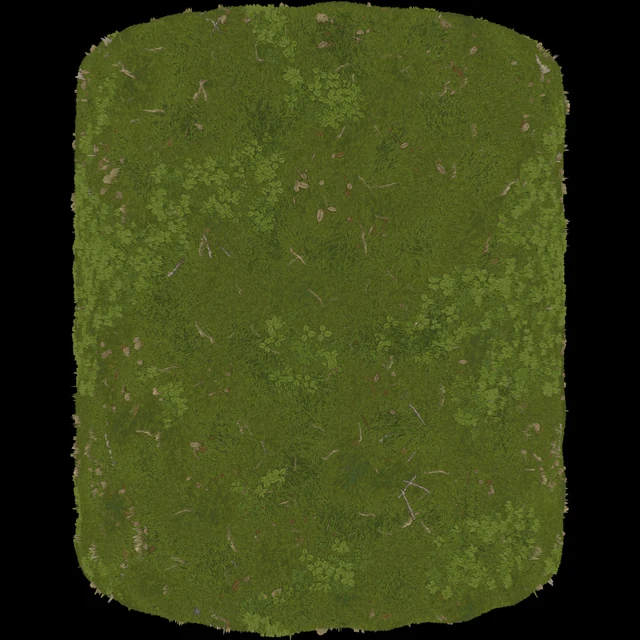
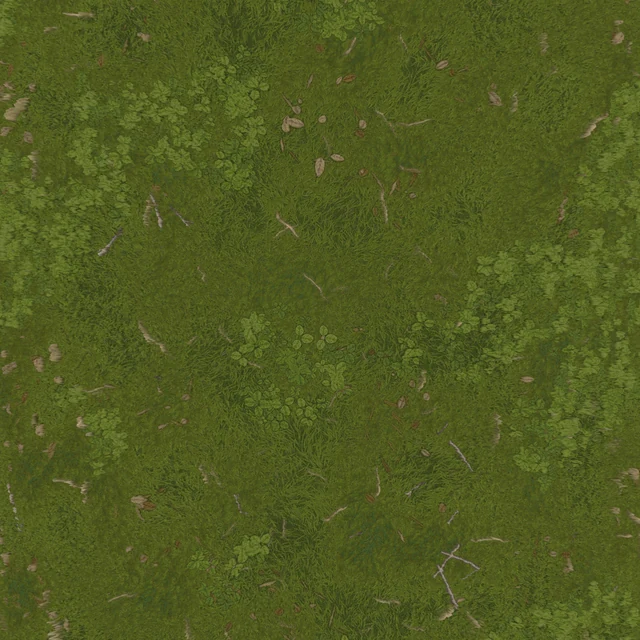
瓦屋面与草地的三通道改为在物体内部取平整方块裁切，不再带轮廓和黑边；版本号升到 v=4

diff --git a/materials/index.html b/materials/index.html
@@ -94,11 +94,11 @@ a{color:inherit;text-decoration:none}
 <article class="slide" id="m01">
   <div class="bg"><img src="../assets/mat/bg20.webp" alt="" loading="lazy"></div>
   <div class="stage">
-    <figure class="ball"><img src="../assets/mat/brick_big.webp?v=3" alt="红砖墙 材质渲染" loading="lazy"></figure>
+    <figure class="ball"><img src="../assets/mat/brick_big.webp?v=4" alt="红砖墙 材质渲染" loading="lazy"></figure>
     <div class="maps">
-      <figure data-full="../assets/mat/brick_a.webp?v=3"><img src="../assets/mat/brick_a.webp?v=3" alt="红砖墙 Albedo" loading="lazy"><span>ALBEDO</span></figure>
-      <figure data-full="../assets/mat/brick_n.webp?v=3"><img src="../assets/mat/brick_n.webp?v=3" alt="红砖墙 Normal" loading="lazy"><span>NORMAL</span></figure>
-      <figure data-full="../assets/mat/brick_r.webp?v=3"><img src="../assets/mat/brick_r.webp?v=3" alt="红砖墙 Roughness" loading="lazy"><span>ROUGH</span></figure>
+      <figure data-full="../assets/mat/brick_a.webp?v=4"><img src="../assets/mat/brick_a.webp?v=4" alt="红砖墙 Albedo" loading="lazy"><span>ALBEDO</span></figure>
+      <figure data-full="../assets/mat/brick_n.webp?v=4"><img src="../assets/mat/brick_n.webp?v=4" alt="红砖墙 Normal" loading="lazy"><span>NORMAL</span></figure>
+      <figure data-full="../assets/mat/brick_r.webp?v=4"><img src="../assets/mat/brick_r.webp?v=4" alt="红砖墙 Roughness" loading="lazy"><span>ROUGH</span></figure>
     </div>
   </div>
   <div class="cap">
@@ -111,11 +111,11 @@ a{color:inherit;text-decoration:none}
 <article class="slide" id="m02">
   <div class="bg"><img src="../assets/mat/bg21.webp" alt="" loading="lazy"></div>
   <div class="stage">
-    <figure class="ball"><img src="../assets/mat/redwall_big.webp?v=3" alt="红漆墙 材质渲染" loading="lazy"></figure>
+    <figure class="ball"><img src="../assets/mat/redwall_big.webp?v=4" alt="红漆墙 材质渲染" loading="lazy"></figure>
     <div class="maps">
-      <figure data-full="../assets/mat/redwall_a.webp?v=3"><img src="../assets/mat/redwall_a.webp?v=3" alt="红漆墙 Albedo" loading="lazy"><span>ALBEDO</span></figure>
-      <figure data-full="../assets/mat/redwall_n.webp?v=3"><img src="../assets/mat/redwall_n.webp?v=3" alt="红漆墙 Normal" loading="lazy"><span>NORMAL</span></figure>
-      <figure data-full="../assets/mat/redwall_r.webp?v=3"><img src="../assets/mat/redwall_r.webp?v=3" alt="红漆墙 Roughness" loading="lazy"><span>ROUGH</span></figure>
+      <figure data-full="../assets/mat/redwall_a.webp?v=4"><img src="../assets/mat/redwall_a.webp?v=4" alt="红漆墙 Albedo" loading="lazy"><span>ALBEDO</span></figure>
+      <figure data-full="../assets/mat/redwall_n.webp?v=4"><img src="../assets/mat/redwall_n.webp?v=4" alt="红漆墙 Normal" loading="lazy"><span>NORMAL</span></figure>
+      <figure data-full="../assets/mat/redwall_r.webp?v=4"><img src="../assets/mat/redwall_r.webp?v=4" alt="红漆墙 Roughness" loading="lazy"><span>ROUGH</span></figure>
     </div>
   </div>
   <div class="cap">
@@ -128,11 +128,11 @@ a{color:inherit;text-decoration:none}
 <article class="slide" id="m03">
   <div class="bg"><img src="../assets/mat/bg21.webp" alt="" loading="lazy"></div>
   <div class="stage">
-    <figure class="ball"><img src="../assets/mat/redwall2_big.webp?v=3" alt="红漆墙 02 材质渲染" loading="lazy"></figure>
+    <figure class="ball"><img src="../assets/mat/redwall2_big.webp?v=4" alt="红漆墙 02 材质渲染" loading="lazy"></figure>
     <div class="maps">
-      <figure data-full="../assets/mat/redwall2_a.webp?v=3"><img src="../assets/mat/redwall2_a.webp?v=3" alt="红漆墙 02 Albedo" loading="lazy"><span>ALBEDO</span></figure>
-      <figure data-full="../assets/mat/redwall2_n.webp?v=3"><img src="../assets/mat/redwall2_n.webp?v=3" alt="红漆墙 02 Normal" loading="lazy"><span>NORMAL</span></figure>
-      <figure data-full="../assets/mat/redwall2_r.webp?v=3"><img src="../assets/mat/redwall2_r.webp?v=3" alt="红漆墙 02 Roughness" loading="lazy"><span>ROUGH</span></figure>
+      <figure data-full="../assets/mat/redwall2_a.webp?v=4"><img src="../assets/mat/redwall2_a.webp?v=4" alt="红漆墙 02 Albedo" loading="lazy"><span>ALBEDO</span></figure>
+      <figure data-full="../assets/mat/redwall2_n.webp?v=4"><img src="../assets/mat/redwall2_n.webp?v=4" alt="红漆墙 02 Normal" loading="lazy"><span>NORMAL</span></figure>
+      <figure data-full="../assets/mat/redwall2_r.webp?v=4"><img src="../assets/mat/redwall2_r.webp?v=4" alt="红漆墙 02 Roughness" loading="lazy"><span>ROUGH</span></figure>
     </div>
   </div>
   <div class="cap">
@@ -145,11 +145,11 @@ a{color:inherit;text-decoration:none}
 <article class="slide" id="m04">
   <div class="bg"><img src="../assets/mat/bg19.webp" alt="" loading="lazy"></div>
   <div class="stage">
-    <figure class="ball"><img src="../assets/mat/soil_big.webp?v=3" alt="土壤 材质渲染" loading="lazy"></figure>
+    <figure class="ball"><img src="../assets/mat/soil_big.webp?v=4" alt="土壤 材质渲染" loading="lazy"></figure>
     <div class="maps">
-      <figure data-full="../assets/mat/soil_a.webp?v=3"><img src="../assets/mat/soil_a.webp?v=3" alt="土壤 Albedo" loading="lazy"><span>ALBEDO</span></figure>
-      <figure data-full="../assets/mat/soil_n.webp?v=3"><img src="../assets/mat/soil_n.webp?v=3" alt="土壤 Normal" loading="lazy"><span>NORMAL</span></figure>
-      <figure data-full="../assets/mat/soil_r.webp?v=3"><img src="../assets/mat/soil_r.webp?v=3" alt="土壤 Roughness" loading="lazy"><span>ROUGH</span></figure>
+      <figure data-full="../assets/mat/soil_a.webp?v=4"><img src="../assets/mat/soil_a.webp?v=4" alt="土壤 Albedo" loading="lazy"><span>ALBEDO</span></figure>
+      <figure data-full="../assets/mat/soil_n.webp?v=4"><img src="../assets/mat/soil_n.webp?v=4" alt="土壤 Normal" loading="lazy"><span>NORMAL</span></figure>
+      <figure data-full="../assets/mat/soil_r.webp?v=4"><img src="../assets/mat/soil_r.webp?v=4" alt="土壤 Roughness" loading="lazy"><span>ROUGH</span></figure>
     </div>
   </div>
   <div class="cap">
@@ -162,11 +162,11 @@ a{color:inherit;text-decoration:none}
 <article class="slide" id="m05">
   <div class="bg"><img src="../assets/mat/bg15.webp" alt="" loading="lazy"></div>
   <div class="stage">
-    <figure class="ball"><img src="../assets/mat/stonebrick_big.webp?v=3" alt="石砖墙 材质渲染" loading="lazy"></figure>
+    <figure class="ball"><img src="../assets/mat/stonebrick_big.webp?v=4" alt="石砖墙 材质渲染" loading="lazy"></figure>
     <div class="maps">
-      <figure data-full="../assets/mat/stonebrick_a.webp?v=3"><img src="../assets/mat/stonebrick_a.webp?v=3" alt="石砖墙 Albedo" loading="lazy"><span>ALBEDO</span></figure>
-      <figure data-full="../assets/mat/stonebrick_n.webp?v=3"><img src="../assets/mat/stonebrick_n.webp?v=3" alt="石砖墙 Normal" loading="lazy"><span>NORMAL</span></figure>
-      <figure data-full="../assets/mat/stonebrick_r.webp?v=3"><img src="../assets/mat/stonebrick_r.webp?v=3" alt="石砖墙 Roughness" loading="lazy"><span>ROUGH</span></figure>
+      <figure data-full="../assets/mat/stonebrick_a.webp?v=4"><img src="../assets/mat/stonebrick_a.webp?v=4" alt="石砖墙 Albedo" loading="lazy"><span>ALBEDO</span></figure>
+      <figure data-full="../assets/mat/stonebrick_n.webp?v=4"><img src="../assets/mat/stonebrick_n.webp?v=4" alt="石砖墙 Normal" loading="lazy"><span>NORMAL</span></figure>
+      <figure data-full="../assets/mat/stonebrick_r.webp?v=4"><img src="../assets/mat/stonebrick_r.webp?v=4" alt="石砖墙 Roughness" loading="lazy"><span>ROUGH</span></figure>
     </div>
   </div>
   <div class="cap">
@@ -179,11 +179,11 @@ a{color:inherit;text-decoration:none}
 <article class="slide" id="m06">
   <div class="bg"><img src="../assets/mat/bg18.webp" alt="" loading="lazy"></div>
   <div class="stage">
-    <figure class="ball"><img src="../assets/mat/stonewall_big.webp?v=3" alt="粗石墙 材质渲染" loading="lazy"></figure>
+    <figure class="ball"><img src="../assets/mat/stonewall_big.webp?v=4" alt="粗石墙 材质渲染" loading="lazy"></figure>
     <div class="maps">
-      <figure data-full="../assets/mat/stonewall_a.webp?v=3"><img src="../assets/mat/stonewall_a.webp?v=3" alt="粗石墙 Albedo" loading="lazy"><span>ALBEDO</span></figure>
-      <figure data-full="../assets/mat/stonewall_n.webp?v=3"><img src="../assets/mat/stonewall_n.webp?v=3" alt="粗石墙 Normal" loading="lazy"><span>NORMAL</span></figure>
-      <figure data-full="../assets/mat/stonewall_r.webp?v=3"><img src="../assets/mat/stonewall_r.webp?v=3" alt="粗石墙 Roughness" loading="lazy"><span>ROUGH</span></figure>
+      <figure data-full="../assets/mat/stonewall_a.webp?v=4"><img src="../assets/mat/stonewall_a.webp?v=4" alt="粗石墙 Albedo" loading="lazy"><span>ALBEDO</span></figure>
+      <figure data-full="../assets/mat/stonewall_n.webp?v=4"><img src="../assets/mat/stonewall_n.webp?v=4" alt="粗石墙 Normal" loading="lazy"><span>NORMAL</span></figure>
+      <figure data-full="../assets/mat/stonewall_r.webp?v=4"><img src="../assets/mat/stonewall_r.webp?v=4" alt="粗石墙 Roughness" loading="lazy"><span>ROUGH</span></figure>
     </div>
   </div>
   <div class="cap">
@@ -196,11 +196,11 @@ a{color:inherit;text-decoration:none}
 <article class="slide" id="m07">
   <div class="bg"><img src="../assets/mat/bg18.webp" alt="" loading="lazy"></div>
   <div class="stage">
-    <figure class="ball"><img src="../assets/mat/stonewall2_big.webp?v=3" alt="粗石墙 02 材质渲染" loading="lazy"></figure>
+    <figure class="ball"><img src="../assets/mat/stonewall2_big.webp?v=4" alt="粗石墙 02 材质渲染" loading="lazy"></figure>
     <div class="maps">
-      <figure data-full="../assets/mat/stonewall2_a.webp?v=3"><img src="../assets/mat/stonewall2_a.webp?v=3" alt="粗石墙 02 Albedo" loading="lazy"><span>ALBEDO</span></figure>
-      <figure data-full="../assets/mat/stonewall2_n.webp?v=3"><img src="../assets/mat/stonewall2_n.webp?v=3" alt="粗石墙 02 Normal" loading="lazy"><span>NORMAL</span></figure>
-      <figure data-full="../assets/mat/stonewall2_r.webp?v=3"><img src="../assets/mat/stonewall2_r.webp?v=3" alt="粗石墙 02 Roughness" loading="lazy"><span>ROUGH</span></figure>
+      <figure data-full="../assets/mat/stonewall2_a.webp?v=4"><img src="../assets/mat/stonewall2_a.webp?v=4" alt="粗石墙 02 Albedo" loading="lazy"><span>ALBEDO</span></figure>
+      <figure data-full="../assets/mat/stonewall2_n.webp?v=4"><img src="../assets/mat/stonewall2_n.webp?v=4" alt="粗石墙 02 Normal" loading="lazy"><span>NORMAL</span></figure>
+      <figure data-full="../assets/mat/stonewall2_r.webp?v=4"><img src="../assets/mat/stonewall2_r.webp?v=4" alt="粗石墙 02 Roughness" loading="lazy"><span>ROUGH</span></figure>
     </div>
   </div>
   <div class="cap">
@@ -213,11 +213,11 @@ a{color:inherit;text-decoration:none}
 <article class="slide" id="m08">
   <div class="bg"><img src="../assets/mat/bg18.webp" alt="" loading="lazy"></div>
   <div class="stage">
-    <figure class="ball"><img src="../assets/mat/stonewall3_big.webp?v=3" alt="粗石墙 03 材质渲染" loading="lazy"></figure>
+    <figure class="ball"><img src="../assets/mat/stonewall3_big.webp?v=4" alt="粗石墙 03 材质渲染" loading="lazy"></figure>
     <div class="maps">
-      <figure data-full="../assets/mat/stonewall3_a.webp?v=3"><img src="../assets/mat/stonewall3_a.webp?v=3" alt="粗石墙 03 Albedo" loading="lazy"><span>ALBEDO</span></figure>
-      <figure data-full="../assets/mat/stonewall3_n.webp?v=3"><img src="../assets/mat/stonewall3_n.webp?v=3" alt="粗石墙 03 Normal" loading="lazy"><span>NORMAL</span></figure>
-      <figure data-full="../assets/mat/stonewall3_r.webp?v=3"><img src="../assets/mat/stonewall3_r.webp?v=3" alt="粗石墙 03 Roughness" loading="lazy"><span>ROUGH</span></figure>
+      <figure data-full="../assets/mat/stonewall3_a.webp?v=4"><img src="../assets/mat/stonewall3_a.webp?v=4" alt="粗石墙 03 Albedo" loading="lazy"><span>ALBEDO</span></figure>
+      <figure data-full="../assets/mat/stonewall3_n.webp?v=4"><img src="../assets/mat/stonewall3_n.webp?v=4" alt="粗石墙 03 Normal" loading="lazy"><span>NORMAL</span></figure>
+      <figure data-full="../assets/mat/stonewall3_r.webp?v=4"><img src="../assets/mat/stonewall3_r.webp?v=4" alt="粗石墙 03 Roughness" loading="lazy"><span>ROUGH</span></figure>
     </div>
   </div>
   <div class="cap">
@@ -230,11 +230,11 @@ a{color:inherit;text-decoration:none}
 <article class="slide" id="m09">
   <div class="bg"><img src="../assets/mat/bg13.webp" alt="" loading="lazy"></div>
   <div class="stage">
-    <figure class="ball"><img src="../assets/mat/whitewall_big.webp?v=3" alt="白灰墙 材质渲染" loading="lazy"></figure>
+    <figure class="ball"><img src="../assets/mat/whitewall_big.webp?v=4" alt="白灰墙 材质渲染" loading="lazy"></figure>
     <div class="maps">
-      <figure data-full="../assets/mat/whitewall_a.webp?v=3"><img src="../assets/mat/whitewall_a.webp?v=3" alt="白灰墙 Albedo" loading="lazy"><span>ALBEDO</span></figure>
-      <figure data-full="../assets/mat/whitewall_n.webp?v=3"><img src="../assets/mat/whitewall_n.webp?v=3" alt="白灰墙 Normal" loading="lazy"><span>NORMAL</span></figure>
-      <figure data-full="../assets/mat/whitewall_r.webp?v=3"><img src="../assets/mat/whitewall_r.webp?v=3" alt="白灰墙 Roughness" loading="lazy"><span>ROUGH</span></figure>
+      <figure data-full="../assets/mat/whitewall_a.webp?v=4"><img src="../assets/mat/whitewall_a.webp?v=4" alt="白灰墙 Albedo" loading="lazy"><span>ALBEDO</span></figure>
+      <figure data-full="../assets/mat/whitewall_n.webp?v=4"><img src="../assets/mat/whitewall_n.webp?v=4" alt="白灰墙 Normal" loading="lazy"><span>NORMAL</span></figure>
+      <figure data-full="../assets/mat/whitewall_r.webp?v=4"><img src="../assets/mat/whitewall_r.webp?v=4" alt="白灰墙 Roughness" loading="lazy"><span>ROUGH</span></figure>
     </div>
   </div>
   <div class="cap">
@@ -247,11 +247,11 @@ a{color:inherit;text-decoration:none}
 <article class="slide" id="m10">
   <div class="bg"><img src="../assets/mat/bg23.webp" alt="" loading="lazy"></div>
   <div class="stage">
-    <figure class="ball"><img src="../assets/mat/floor_big.webp?v=3" alt="石板地面 材质渲染" loading="lazy"></figure>
+    <figure class="ball"><img src="../assets/mat/floor_big.webp?v=4" alt="石板地面 材质渲染" loading="lazy"></figure>
     <div class="maps">
-      <figure data-full="../assets/mat/floor_a.webp?v=3"><img src="../assets/mat/floor_a.webp?v=3" alt="石板地面 Albedo" loading="lazy"><span>ALBEDO</span></figure>
-      <figure data-full="../assets/mat/floor_n.webp?v=3"><img src="../assets/mat/floor_n.webp?v=3" alt="石板地面 Normal" loading="lazy"><span>NORMAL</span></figure>
-      <figure data-full="../assets/mat/floor_r.webp?v=3"><img src="../assets/mat/floor_r.webp?v=3" alt="石板地面 Roughness" loading="lazy"><span>ROUGH</span></figure>
+      <figure data-full="../assets/mat/floor_a.webp?v=4"><img src="../assets/mat/floor_a.webp?v=4" alt="石板地面 Albedo" loading="lazy"><span>ALBEDO</span></figure>
+      <figure data-full="../assets/mat/floor_n.webp?v=4"><img src="../assets/mat/floor_n.webp?v=4" alt="石板地面 Normal" loading="lazy"><span>NORMAL</span></figure>
+      <figure data-full="../assets/mat/floor_r.webp?v=4"><img src="../assets/mat/floor_r.webp?v=4" alt="石板地面 Roughness" loading="lazy"><span>ROUGH</span></figure>
     </div>
   </div>
   <div class="cap">
@@ -264,11 +264,11 @@ a{color:inherit;text-decoration:none}
 <article class="slide" id="m11">
   <div class="bg"><img src="../assets/mat/bg24.webp" alt="" loading="lazy"></div>
   <div class="stage">
-    <figure class="ball"><img src="../assets/mat/grass_big.webp?v=3" alt="草地 材质渲染" loading="lazy"></figure>
+    <figure class="ball"><img src="../assets/mat/grass_big.webp?v=4" alt="草地 材质渲染" loading="lazy"></figure>
     <div class="maps">
-      <figure data-full="../assets/mat/grass_a.webp?v=3"><img src="../assets/mat/grass_a.webp?v=3" alt="草地 Albedo" loading="lazy"><span>ALBEDO</span></figure>
-      <figure data-full="../assets/mat/grass_n.webp?v=3"><img src="../assets/mat/grass_n.webp?v=3" alt="草地 Normal" loading="lazy"><span>NORMAL</span></figure>
-      <figure data-full="../assets/mat/grass_r.webp?v=3"><img src="../assets/mat/grass_r.webp?v=3" alt="草地 Roughness" loading="lazy"><span>ROUGH</span></figure>
+      <figure data-full="../assets/mat/grass_a.webp?v=4"><img src="../assets/mat/grass_a.webp?v=4" alt="草地 Albedo" loading="lazy"><span>ALBEDO</span></figure>
+      <figure data-full="../assets/mat/grass_n.webp?v=4"><img src="../assets/mat/grass_n.webp?v=4" alt="草地 Normal" loading="lazy"><span>NORMAL</span></figure>
+      <figure data-full="../assets/mat/grass_r.webp?v=4"><img src="../assets/mat/grass_r.webp?v=4" alt="草地 Roughness" loading="lazy"><span>ROUGH</span></figure>
     </div>
   </div>
   <div class="cap">
@@ -281,11 +281,11 @@ a{color:inherit;text-decoration:none}
 <article class="slide" id="m12">
   <div class="bg"><img src="../assets/mat/bg27.webp" alt="" loading="lazy"></div>
   <div class="stage">
-    <figure class="ball"><img src="../assets/mat/ground_big.webp?v=3" alt="湿泥地 材质渲染" loading="lazy"></figure>
+    <figure class="ball"><img src="../assets/mat/ground_big.webp?v=4" alt="湿泥地 材质渲染" loading="lazy"></figure>
     <div class="maps">
-      <figure data-full="../assets/mat/ground_a.webp?v=3"><img src="../assets/mat/ground_a.webp?v=3" alt="湿泥地 Albedo" loading="lazy"><span>ALBEDO</span></figure>
-      <figure data-full="../assets/mat/ground_n.webp?v=3"><img src="../assets/mat/ground_n.webp?v=3" alt="湿泥地 Normal" loading="lazy"><span>NORMAL</span></figure>
-      <figure data-full="../assets/mat/ground_r.webp?v=3"><img src="../assets/mat/ground_r.webp?v=3" alt="湿泥地 Roughness" loading="lazy"><span>ROUGH</span></figure>
+      <figure data-full="../assets/mat/ground_a.webp?v=4"><img src="../assets/mat/ground_a.webp?v=4" alt="湿泥地 Albedo" loading="lazy"><span>ALBEDO</span></figure>
+      <figure data-full="../assets/mat/ground_n.webp?v=4"><img src="../assets/mat/ground_n.webp?v=4" alt="湿泥地 Normal" loading="lazy"><span>NORMAL</span></figure>
+      <figure data-full="../assets/mat/ground_r.webp?v=4"><img src="../assets/mat/ground_r.webp?v=4" alt="湿泥地 Roughness" loading="lazy"><span>ROUGH</span></figure>
     </div>
   </div>
   <div class="cap">
@@ -298,11 +298,11 @@ a{color:inherit;text-decoration:none}
 <article class="slide" id="m13">
   <div class="bg"><img src="../assets/mat/bg35.webp" alt="" loading="lazy"></div>
   <div class="stage">
-    <figure class="ball"><img src="../assets/mat/roof1_big.webp?v=3" alt="瓦屋面 材质渲染" loading="lazy"></figure>
+    <figure class="ball"><img src="../assets/mat/roof1_big.webp?v=4" alt="瓦屋面 材质渲染" loading="lazy"></figure>
     <div class="maps">
-      <figure data-full="../assets/mat/roof1_a.webp?v=3"><img src="../assets/mat/roof1_a.webp?v=3" alt="瓦屋面 Albedo" loading="lazy"><span>ALBEDO</span></figure>
-      <figure data-full="../assets/mat/roof1_n.webp?v=3"><img src="../assets/mat/roof1_n.webp?v=3" alt="瓦屋面 Normal" loading="lazy"><span>NORMAL</span></figure>
-      <figure data-full="../assets/mat/roof1_r.webp?v=3"><img src="../assets/mat/roof1_r.webp?v=3" alt="瓦屋面 Roughness" loading="lazy"><span>ROUGH</span></figure>
+      <figure data-full="../assets/mat/roof1_a.webp?v=4"><img src="../assets/mat/roof1_a.webp?v=4" alt="瓦屋面 Albedo" loading="lazy"><span>ALBEDO</span></figure>
+      <figure data-full="../assets/mat/roof1_n.webp?v=4"><img src="../assets/mat/roof1_n.webp?v=4" alt="瓦屋面 Normal" loading="lazy"><span>NORMAL</span></figure>
+      <figure data-full="../assets/mat/roof1_r.webp?v=4"><img src="../assets/mat/roof1_r.webp?v=4" alt="瓦屋面 Roughness" loading="lazy"><span>ROUGH</span></figure>
     </div>
   </div>
   <div class="cap">
@@ -315,11 +315,11 @@ a{color:inherit;text-decoration:none}
 <article class="slide" id="m14">
   <div class="bg"><img src="../assets/mat/bg35.webp" alt="" loading="lazy"></div>
   <div class="stage">
-    <figure class="ball"><img src="../assets/mat/roof1b_big.webp?v=3" alt="瓦屋面 02 材质渲染" loading="lazy"></figure>
+    <figure class="ball"><img src="../assets/mat/roof1b_big.webp?v=4" alt="瓦屋面 02 材质渲染" loading="lazy"></figure>
     <div class="maps">
-      <figure data-full="../assets/mat/roof1b_a.webp?v=3"><img src="../assets/mat/roof1b_a.webp?v=3" alt="瓦屋面 02 Albedo" loading="lazy"><span>ALBEDO</span></figure>
-      <figure data-full="../assets/mat/roof1b_n.webp?v=3"><img src="../assets/mat/roof1b_n.webp?v=3" alt="瓦屋面 02 Normal" loading="lazy"><span>NORMAL</span></figure>
-      <figure data-full="../assets/mat/roof1b_r.webp?v=3"><img src="../assets/mat/roof1b_r.webp?v=3" alt="瓦屋面 02 Roughness" loading="lazy"><span>ROUGH</span></figure>
+      <figure data-full="../assets/mat/roof1b_a.webp?v=4"><img src="../assets/mat/roof1b_a.webp?v=4" alt="瓦屋面 02 Albedo" loading="lazy"><span>ALBEDO</span></figure>
+      <figure data-full="../assets/mat/roof1b_n.webp?v=4"><img src="../assets/mat/roof1b_n.webp?v=4" alt="瓦屋面 02 Normal" loading="lazy"><span>NORMAL</span></figure>
+      <figure data-full="../assets/mat/roof1b_r.webp?v=4"><img src="../assets/mat/roof1b_r.webp?v=4" alt="瓦屋面 02 Roughness" loading="lazy"><span>ROUGH</span></figure>
     </div>
   </div>
   <div class="cap">
@@ -332,11 +332,11 @@ a{color:inherit;text-decoration:none}
 <article class="slide" id="m15">
   <div class="bg"><img src="../assets/mat/bg30.webp" alt="" loading="lazy"></div>
   <div class="stage">
-    <figure class="ball"><img src="../assets/mat/roof2_big.webp?v=3" alt="青瓦 材质渲染" loading="lazy"></figure>
+    <figure class="ball"><img src="../assets/mat/roof2_big.webp?v=4" alt="青瓦 材质渲染" loading="lazy"></figure>
     <div class="maps">
-      <figure data-full="../assets/mat/roof2_a.webp?v=3"><img src="../assets/mat/roof2_a.webp?v=3" alt="青瓦 Albedo" loading="lazy"><span>ALBEDO</span></figure>
-      <figure data-full="../assets/mat/roof2_n.webp?v=3"><img src="../assets/mat/roof2_n.webp?v=3" alt="青瓦 Normal" loading="lazy"><span>NORMAL</span></figure>
-      <figure data-full="../assets/mat/roof2_r.webp?v=3"><img src="../assets/mat/roof2_r.webp?v=3" alt="青瓦 Roughness" loading="lazy"><span>ROUGH</span></figure>
+      <figure data-full="../assets/mat/roof2_a.webp?v=4"><img src="../assets/mat/roof2_a.webp?v=4" alt="青瓦 Albedo" loading="lazy"><span>ALBEDO</span></figure>
+      <figure data-full="../assets/mat/roof2_n.webp?v=4"><img src="../assets/mat/roof2_n.webp?v=4" alt="青瓦 Normal" loading="lazy"><span>NORMAL</span></figure>
+      <figure data-full="../assets/mat/roof2_r.webp?v=4"><img src="../assets/mat/roof2_r.webp?v=4" alt="青瓦 Roughness" loading="lazy"><span>ROUGH</span></figure>
     </div>
   </div>
   <div class="cap">
@@ -349,11 +349,11 @@ a{color:inherit;text-decoration:none}
 <article class="slide" id="m16">
   <div class="bg"><img src="../assets/mat/bg30.webp" alt="" loading="lazy"></div>
   <div class="stage">
-    <figure class="ball"><img src="../assets/mat/roof2b_big.webp?v=3" alt="青瓦 02 材质渲染" loading="lazy"></figure>
+    <figure class="ball"><img src="../assets/mat/roof2b_big.webp?v=4" alt="青瓦 02 材质渲染" loading="lazy"></figure>
     <div class="maps">
-      <figure data-full="../assets/mat/roof2b_a.webp?v=3"><img src="../assets/mat/roof2b_a.webp?v=3" alt="青瓦 02 Albedo" loading="lazy"><span>ALBEDO</span></figure>
-      <figure data-full="../assets/mat/roof2b_n.webp?v=3"><img src="../assets/mat/roof2b_n.webp?v=3" alt="青瓦 02 Normal" loading="lazy"><span>NORMAL</span></figure>
-      <figure data-full="../assets/mat/roof2b_r.webp?v=3"><img src="../assets/mat/roof2b_r.webp?v=3" alt="青瓦 02 Roughness" loading="lazy"><span>ROUGH</span></figure>
+      <figure data-full="../assets/mat/roof2b_a.webp?v=4"><img src="../assets/mat/roof2b_a.webp?v=4" alt="青瓦 02 Albedo" loading="lazy"><span>ALBEDO</span></figure>
+      <figure data-full="../assets/mat/roof2b_n.webp?v=4"><img src="../assets/mat/roof2b_n.webp?v=4" alt="青瓦 02 Normal" loading="lazy"><span>NORMAL</span></figure>
+      <figure data-full="../assets/mat/roof2b_r.webp?v=4"><img src="../assets/mat/roof2b_r.webp?v=4" alt="青瓦 02 Roughness" loading="lazy"><span>ROUGH</span></figure>
     </div>
   </div>
   <div class="cap">
@@ -366,11 +366,11 @@ a{color:inherit;text-decoration:none}
 <article class="slide" id="m17">
   <div class="bg"><img src="../assets/mat/bg28.webp" alt="" loading="lazy"></div>
   <div class="stage">
-    <figure class="ball"><img src="../assets/mat/water_big.webp?v=3" alt="水面 材质渲染" loading="lazy"></figure>
+    <figure class="ball"><img src="../assets/mat/water_big.webp?v=4" alt="水面 材质渲染" loading="lazy"></figure>
     <div class="maps">
-      <figure data-full="../assets/mat/water_a.webp?v=3"><img src="../assets/mat/water_a.webp?v=3" alt="水面 Albedo" loading="lazy"><span>ALBEDO</span></figure>
-      <figure data-full="../assets/mat/water_n.webp?v=3"><img src="../assets/mat/water_n.webp?v=3" alt="水面 Normal" loading="lazy"><span>NORMAL</span></figure>
-      <figure data-full="../assets/mat/water_r.webp?v=3"><img src="../assets/mat/water_r.webp?v=3" alt="水面 Roughness" loading="lazy"><span>ROUGH</span></figure>
+      <figure data-full="../assets/mat/water_a.webp?v=4"><img src="../assets/mat/water_a.webp?v=4" alt="水面 Albedo" loading="lazy"><span>ALBEDO</span></figure>
+      <figure data-full="../assets/mat/water_n.webp?v=4"><img src="../assets/mat/water_n.webp?v=4" alt="水面 Normal" loading="lazy"><span>NORMAL</span></figure>
+      <figure data-full="../assets/mat/water_r.webp?v=4"><img src="../assets/mat/water_r.webp?v=4" alt="水面 Roughness" loading="lazy"><span>ROUGH</span></figure>
     </div>
   </div>
   <div class="cap">
@@ -383,11 +383,11 @@ a{color:inherit;text-decoration:none}
 <article class="slide" id="m18">
   <div class="bg"><img src="../assets/mat/bg22.webp" alt="" loading="lazy"></div>
   <div class="stage">
-    <figure class="ball"><img src="../assets/mat/window_big.webp?v=3" alt="窗格 材质渲染" loading="lazy"></figure>
+    <figure class="ball"><img src="../assets/mat/window_big.webp?v=4" alt="窗格 材质渲染" loading="lazy"></figure>
     <div class="maps">
-      <figure data-full="../assets/mat/window_a.webp?v=3"><img src="../assets/mat/window_a.webp?v=3" alt="窗格 Albedo" loading="lazy"><span>ALBEDO</span></figure>
-      <figure data-full="../assets/mat/window_n.webp?v=3"><img src="../assets/mat/window_n.webp?v=3" alt="窗格 Normal" loading="lazy"><span>NORMAL</span></figure>
-      <figure data-full="../assets/mat/window_r.webp?v=3"><img src="../assets/mat/window_r.webp?v=3" alt="窗格 Roughness" loading="lazy"><span>ROUGH</span></figure>
+      <figure data-full="../assets/mat/window_a.webp?v=4"><img src="../assets/mat/window_a.webp?v=4" alt="窗格 Albedo" loading="lazy"><span>ALBEDO</span></figure>
+      <figure data-full="../assets/mat/window_n.webp?v=4"><img src="../assets/mat/window_n.webp?v=4" alt="窗格 Normal" loading="lazy"><span>NORMAL</span></figure>
+      <figure data-full="../assets/mat/window_r.webp?v=4"><img src="../assets/mat/window_r.webp?v=4" alt="窗格 Roughness" loading="lazy"><span>ROUGH</span></figure>
     </div>
   </div>
   <div class="cap">
@@ -400,11 +400,11 @@ a{color:inherit;text-decoration:none}
 <article class="slide" id="m19">
   <div class="bg"><img src="../assets/mat/bg26.webp" alt="" loading="lazy"></div>
   <div class="stage">
-    <figure class="ball"><img src="../assets/mat/wood_big.webp?v=3" alt="木纹 材质渲染" loading="lazy"></figure>
+    <figure class="ball"><img src="../assets/mat/wood_big.webp?v=4" alt="木纹 材质渲染" loading="lazy"></figure>
     <div class="maps">
-      <figure data-full="../assets/mat/wood_a.webp?v=3"><img src="../assets/mat/wood_a.webp?v=3" alt="木纹 Albedo" loading="lazy"><span>ALBEDO</span></figure>
-      <figure data-full="../assets/mat/wood_n.webp?v=3"><img src="../assets/mat/wood_n.webp?v=3" alt="木纹 Normal" loading="lazy"><span>NORMAL</span></figure>
-      <figure data-full="../assets/mat/wood_r.webp?v=3"><img src="../assets/mat/wood_r.webp?v=3" alt="木纹 Roughness" loading="lazy"><span>ROUGH</span></figure>
+      <figure data-full="../assets/mat/wood_a.webp?v=4"><img src="../assets/mat/wood_a.webp?v=4" alt="木纹 Albedo" loading="lazy"><span>ALBEDO</span></figure>
+      <figure data-full="../assets/mat/wood_n.webp?v=4"><img src="../assets/mat/wood_n.webp?v=4" alt="木纹 Normal" loading="lazy"><span>NORMAL</span></figure>
+      <figure data-full="../assets/mat/wood_r.webp?v=4"><img src="../assets/mat/wood_r.webp?v=4" alt="木纹 Roughness" loading="lazy"><span>ROUGH</span></figure>
     </div>
   </div>
   <div class="cap">
